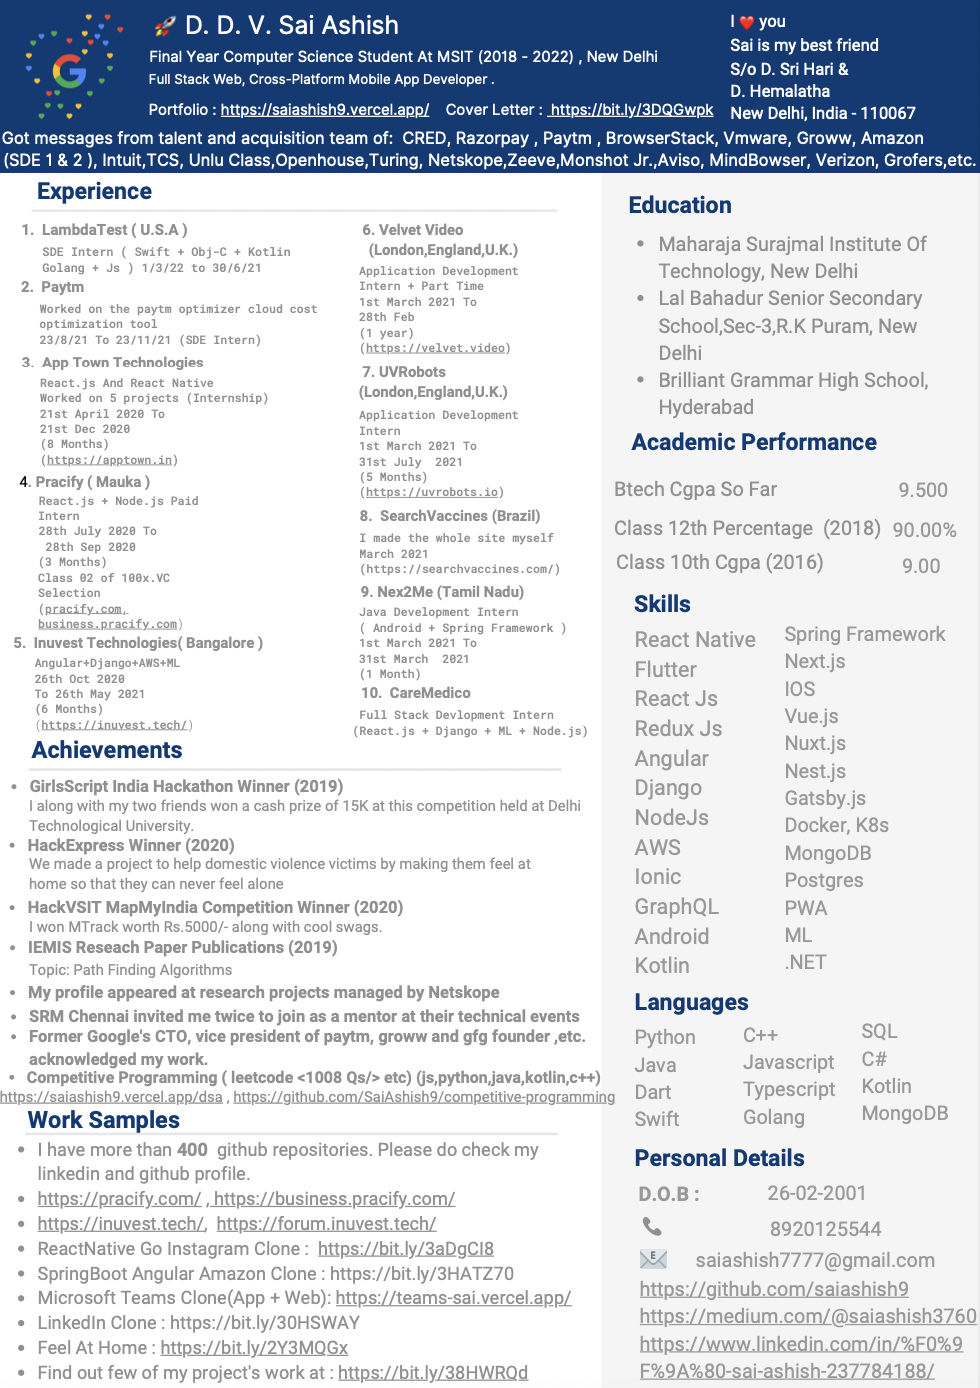
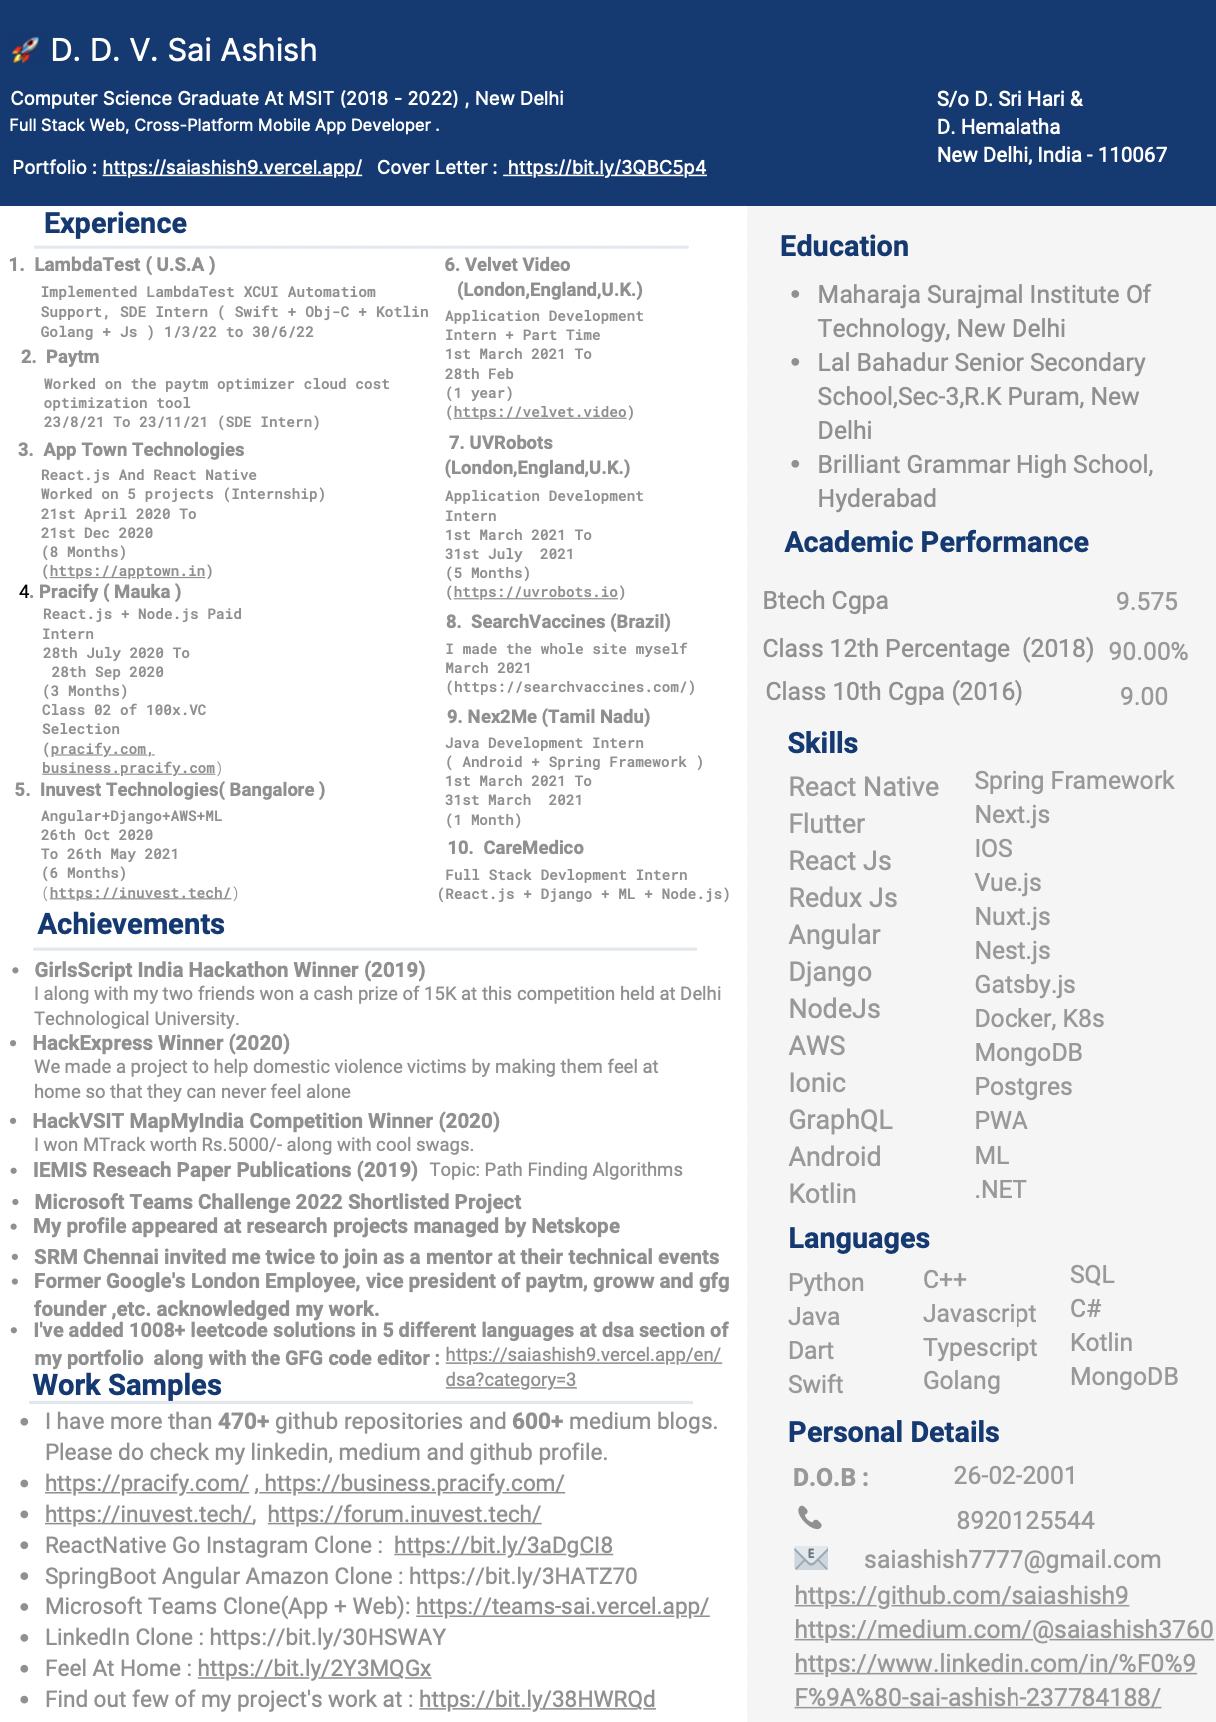
k

Changed region(s): [[0.0, 0.0, 1.0, 1.0], [0.2449, 0.2788, 0.2755, 0.3098]]

diff --git a/src/languages/translations.js b/src/languages/translations.js
@@ -342,14 +342,14 @@ export const translations = [
   },
   {
     text: "repos",
-    en: "450+ repo's",
-    pt: "Mais de 350 repo's",
-    hi: "450+ रेपो",
-    te: "450+ రెపోలు",
-    de: "450+ Repos",
-    zh: "350 多個回購",
-    fr: "450+ pensions",
-    ru: "450+ репо",
+    en: "470+ repo's",
+    pt: "Mais de 470 repo's",
+    hi: "470+ रेपो",
+    te: "470+ రెపోలు",
+    de: "470+ Repos",
+    zh: "470 多個回購",
+    fr: "470+ pensions",
+    ru: "470+ репо",
   },
   {
     text: "linkedIn",
